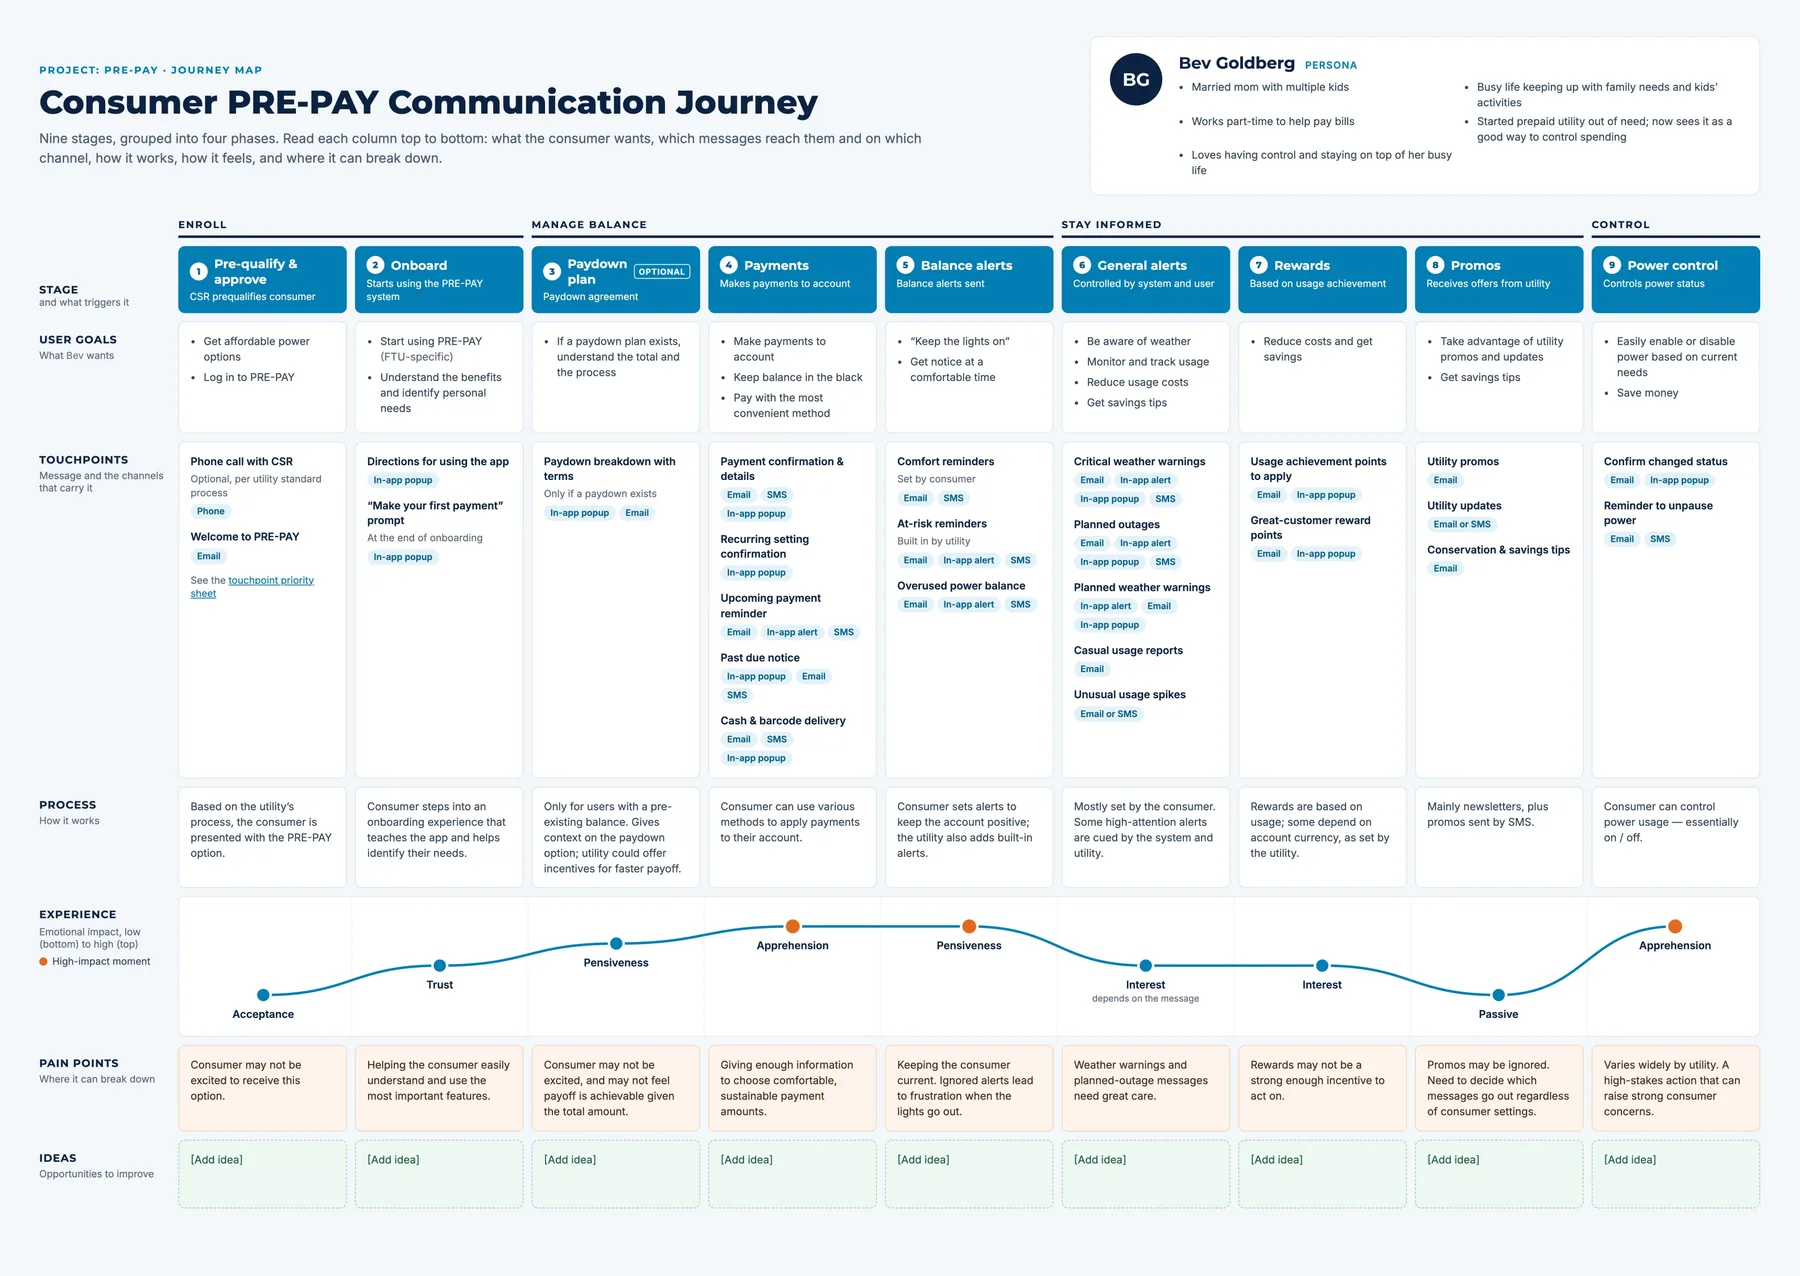
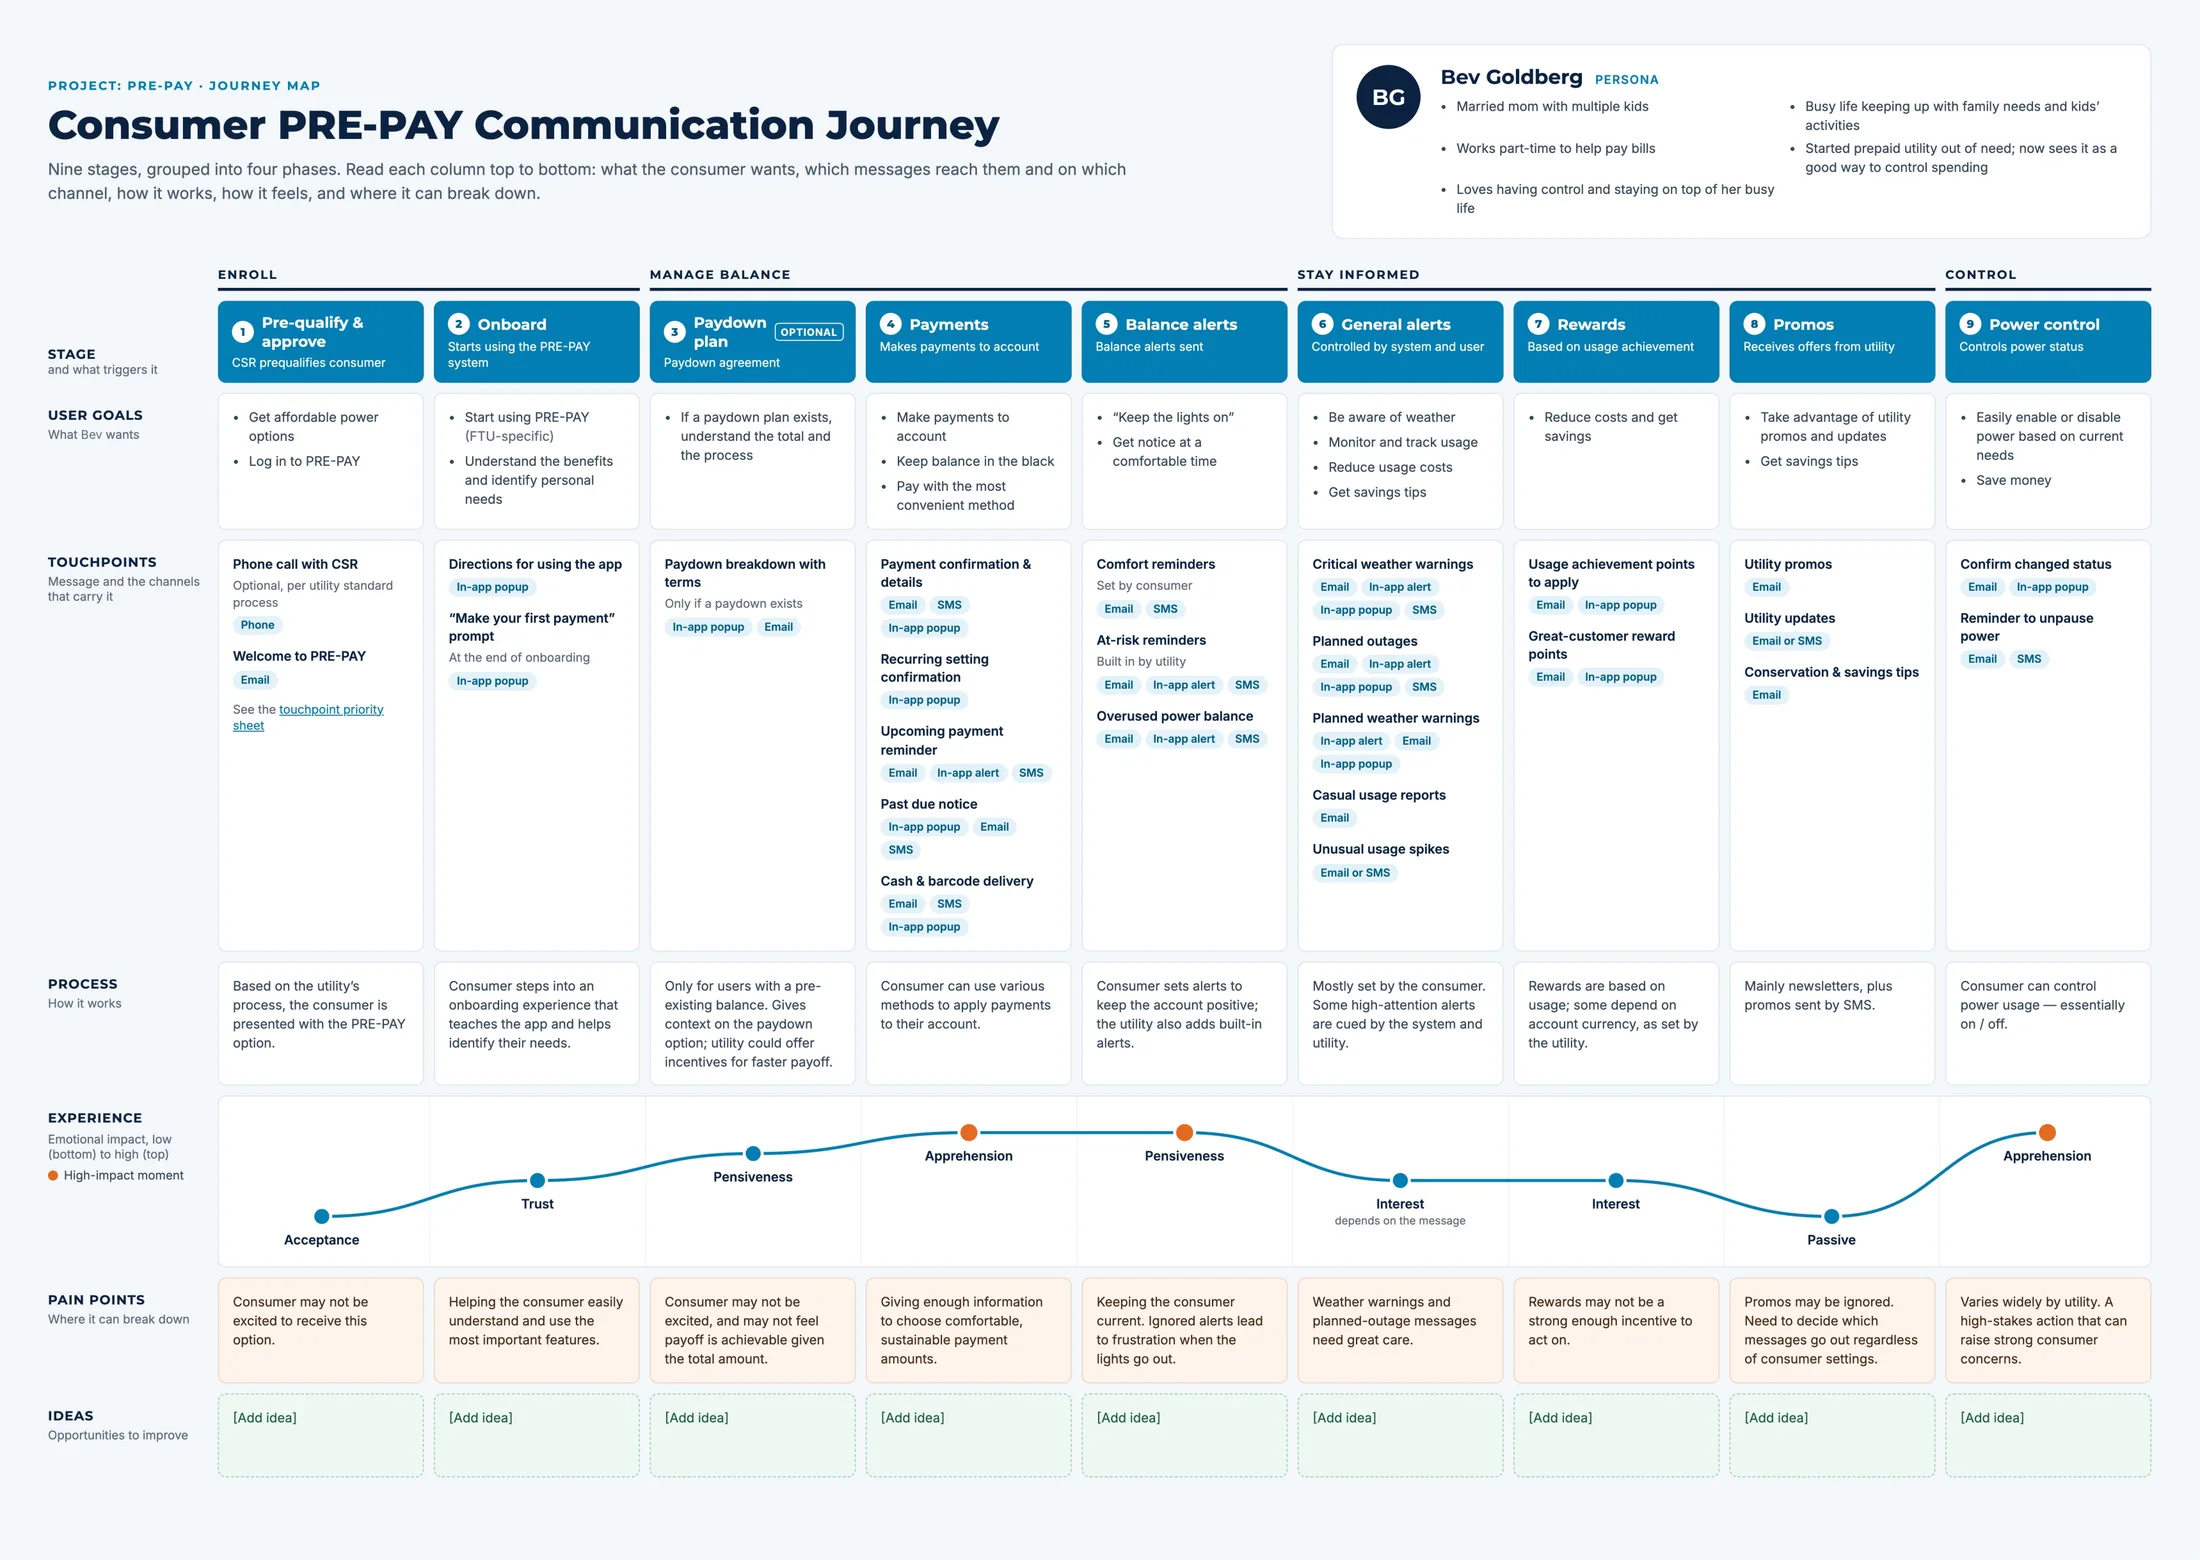
Swap Prepay journey images for the first 60 days map and communication journey
Claude-Session: https://claude.ai/code/session_01YKPgW3T4HPskDjUozrZZ8V

diff --git a/src/styles/global.css b/src/styles/global.css
@@ -241,3 +241,6 @@ input, select, textarea, [id] { scroll-margin-top: 6rem; }
 .cs-learn span { display: block; color: var(--accent); font-weight: 600; font-size: 0.85rem; letter-spacing: 0.06em; margin-bottom: 1rem; }
 .cs-learn strong { display: block; font-size: 1.3rem; line-height: 1.2; letter-spacing: -0.02em; }
 .prose .cs-learn p { font-size: 0.98rem; color: var(--muted); margin: 0.75rem 0 0; }
+/* Very wide images (journey maps): scroll sideways at a readable height */
+.cs-pan { overflow-x: auto; border-radius: 14px; box-shadow: 0 0 0 1px var(--line); background: var(--surface); }
+.prose .cs-pan img { width: auto; max-width: none; height: clamp(360px, 48vw, 560px); border-radius: 0; }

diff --git a/src/content/projects/prepay.md b/src/content/projects/prepay.md
@@ -109,12 +109,20 @@ Bev and Creed were the core targets. Troy was the opportunity: younger, digital-
 
 <blockquote class="cs-quote"><p>“Account transparency and reminders are important… Life happens, and if anything comes up, I like knowing my fish tank isn’t going to be shut off because I got tied up.”</p><cite>Bev Goldberg, persona built from field research</cite></blockquote>
 
-Mapping Bev's and Creed's first 60 days on prepay showed where it breaks: the surprise shutoff, and for Creed, cash payments that depend on trips to a store. From there I sketched the optimal journey, five stages from learning about prepay to adding money, with what the customer does, feels and says at each step.
+Mapping Bev's first 60 days on prepay, step by step, showed where it breaks: the surprise shutoff, and the moments where a timely warning or an easy way to pay makes the difference.
 
-<figure class="cs-wide cs-sketch-pair">
-  <a href="/case-studies/prepay/journey-sketch.webp" class="zoom cs-zoom"><img src="/case-studies/prepay/journey-sketch.webp" alt="Pencil sketch of the optimal user journey" width="1800" height="1266" loading="lazy" /></a>
-  <a href="/case-studies/prepay/journey.webp" class="zoom cs-zoom"><img src="/case-studies/prepay/journey.webp" alt="Restyled optimal user journey: learns about prepay, signs up, monitors usage, receives alerts, recharges account" width="1800" height="1267" loading="lazy" /></a>
-  <figcaption>The optimal journey, from first sketch to the version the team designed against.</figcaption>
+<figure class="cs-wide cs-pan-fig">
+  <div class="cs-pan" tabindex="0" aria-label="First 60 days journey map, scroll sideways">
+    <a href="/case-studies/prepay/first-60-days.webp" class="zoom cs-zoom"><img src="/case-studies/prepay/first-60-days.webp" alt="Journey map of Bev Goldberg's first 60 days on prepay, from invitation and sign-up through onboarding, payments, low-balance alerts and adjusting automatic payments" width="6400" height="1106" loading="lazy" /></a>
+  </div>
+  <figcaption>Bev's first 60 days, from invitation through her first payment cycles. Scroll sideways, or select to view larger.</figcaption>
+</figure>
+
+From there I mapped the communication journey: nine stages in four phases, showing what Bev wants at each stage, which messages reach her and on which channel, how it feels, and where it can break down.
+
+<figure class="cs-wide">
+  <a href="/case-studies/prepay/comm-journey.webp" class="zoom cs-zoom"><img src="/case-studies/prepay/comm-journey.webp" alt="Consumer PRE-PAY communication journey for Bev: nine stages from pre-qualify to power control, with user goals, touchpoints by channel, process, an emotional experience curve and pain points" width="2200" height="1560" loading="lazy" /></a>
+  <figcaption>The communication journey. The high-impact moments are payments, balance alerts and power control, where the stakes are highest.</figcaption>
 </figure>
 
 ### Communication is the product
